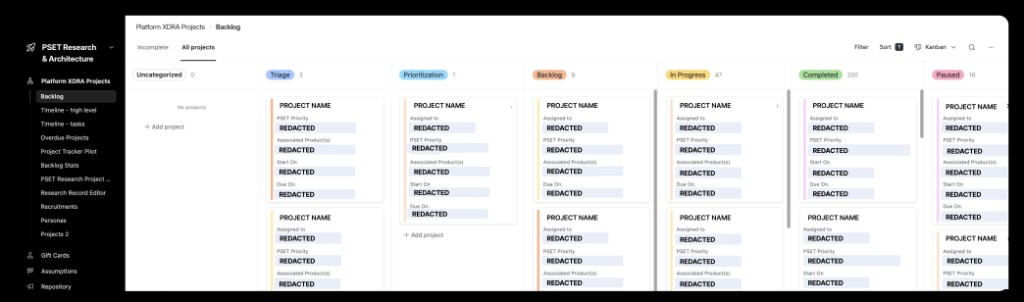
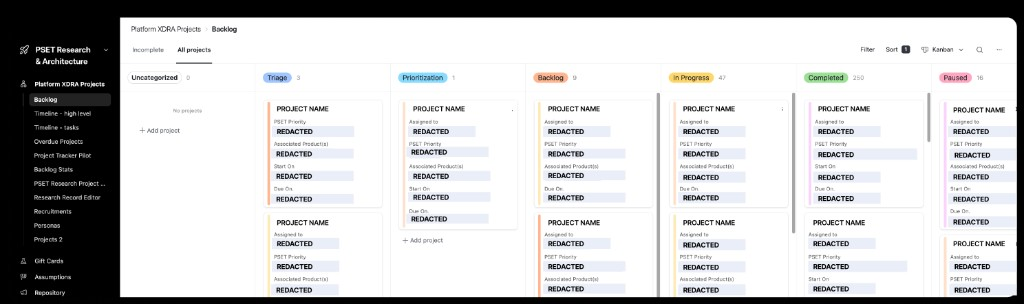
Fix blurry kanban screenshot — display at natural aspect ratio instead of cropping to 400px height
Made-with: Cursor

diff --git a/index.html b/index.html
@@ -604,7 +604,7 @@
           </p>
         </div>
 
-        <figure class="cs-hero reveal">
+        <figure class="cs-hero cs-hero--natural reveal">
           <img src="images/backlog-kanban-redacted.png" alt="Research Intake Pipeline Kanban board — names redacted" loading="lazy">
           <figcaption>The live research backlog — projects flowing through Triage, Prioritization, In Progress, and Completed</figcaption>
         </figure>

diff --git a/styles.css b/styles.css
@@ -737,8 +737,15 @@ button { font-family: var(--font); cursor: pointer; border: none; background: no
   border-top: 1px solid var(--gray-200);
 }
 
+.cs-hero--natural img {
+  height: auto;
+  object-fit: contain;
+  max-width: 100%;
+}
+
 @media (max-width: 768px) {
   .cs-hero img { height: 240px; }
+  .cs-hero--natural img { height: auto; }
 }
 
 /* Brand-specific case study accents — Autodesk */
